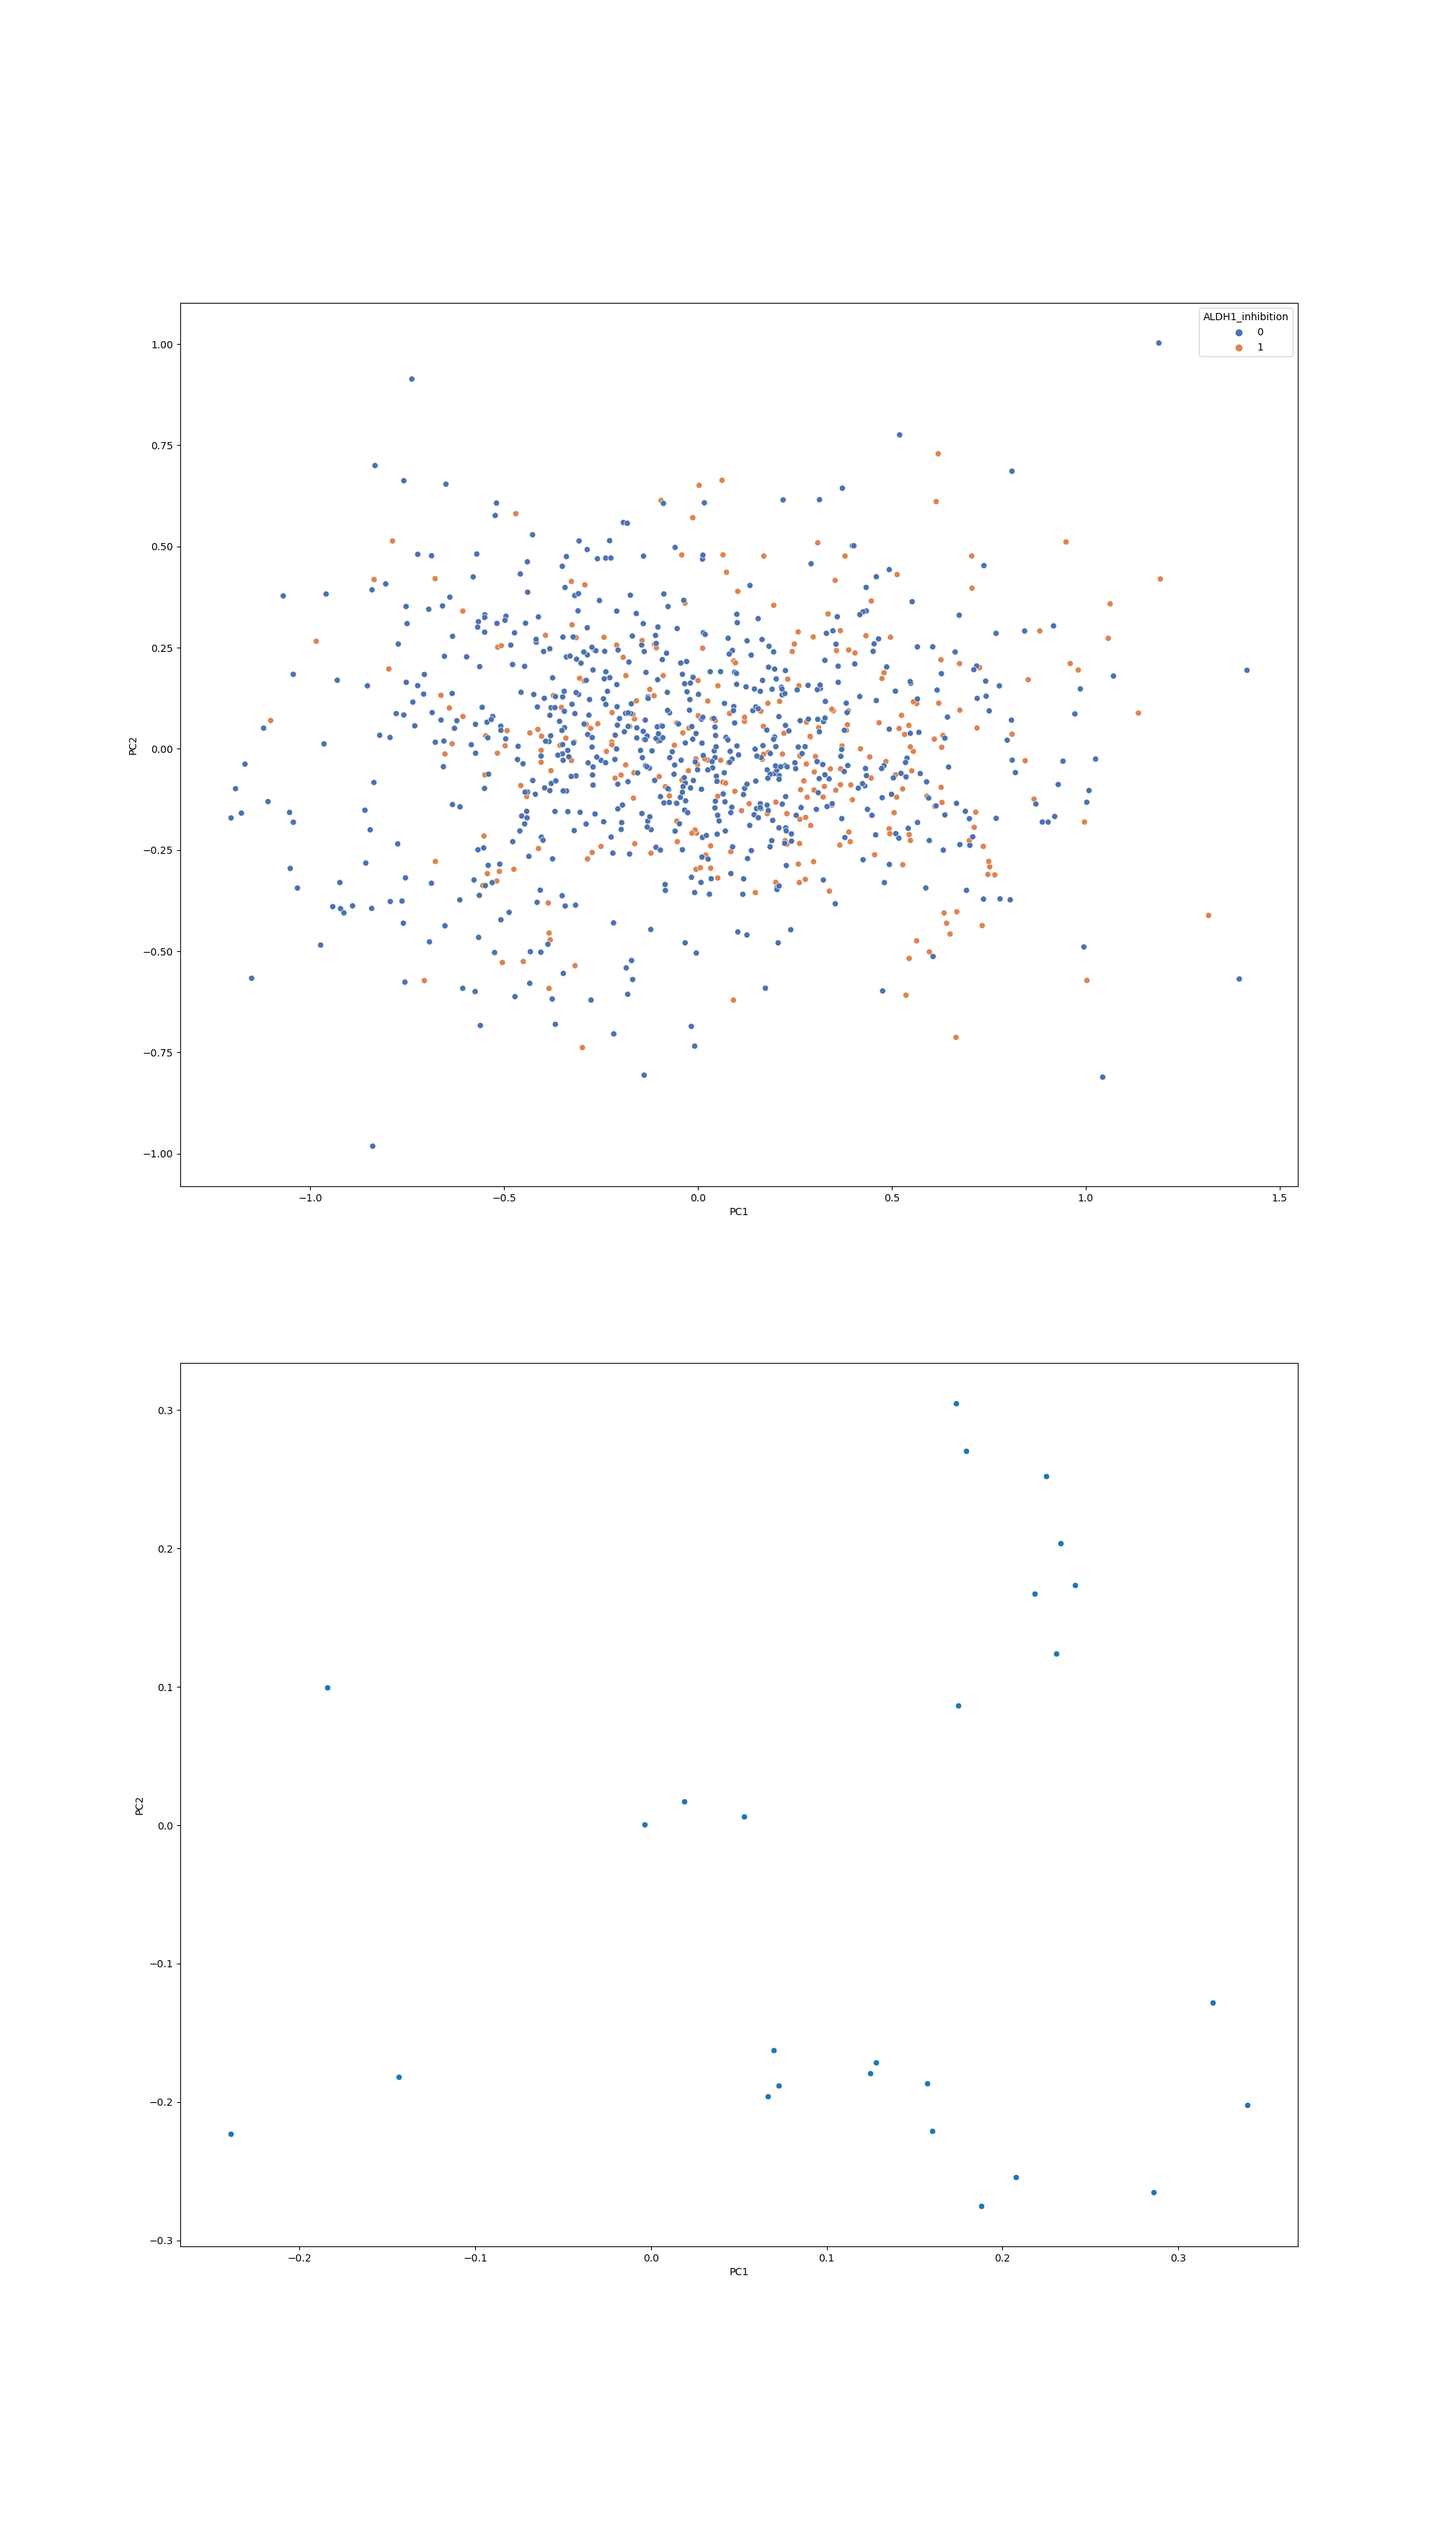
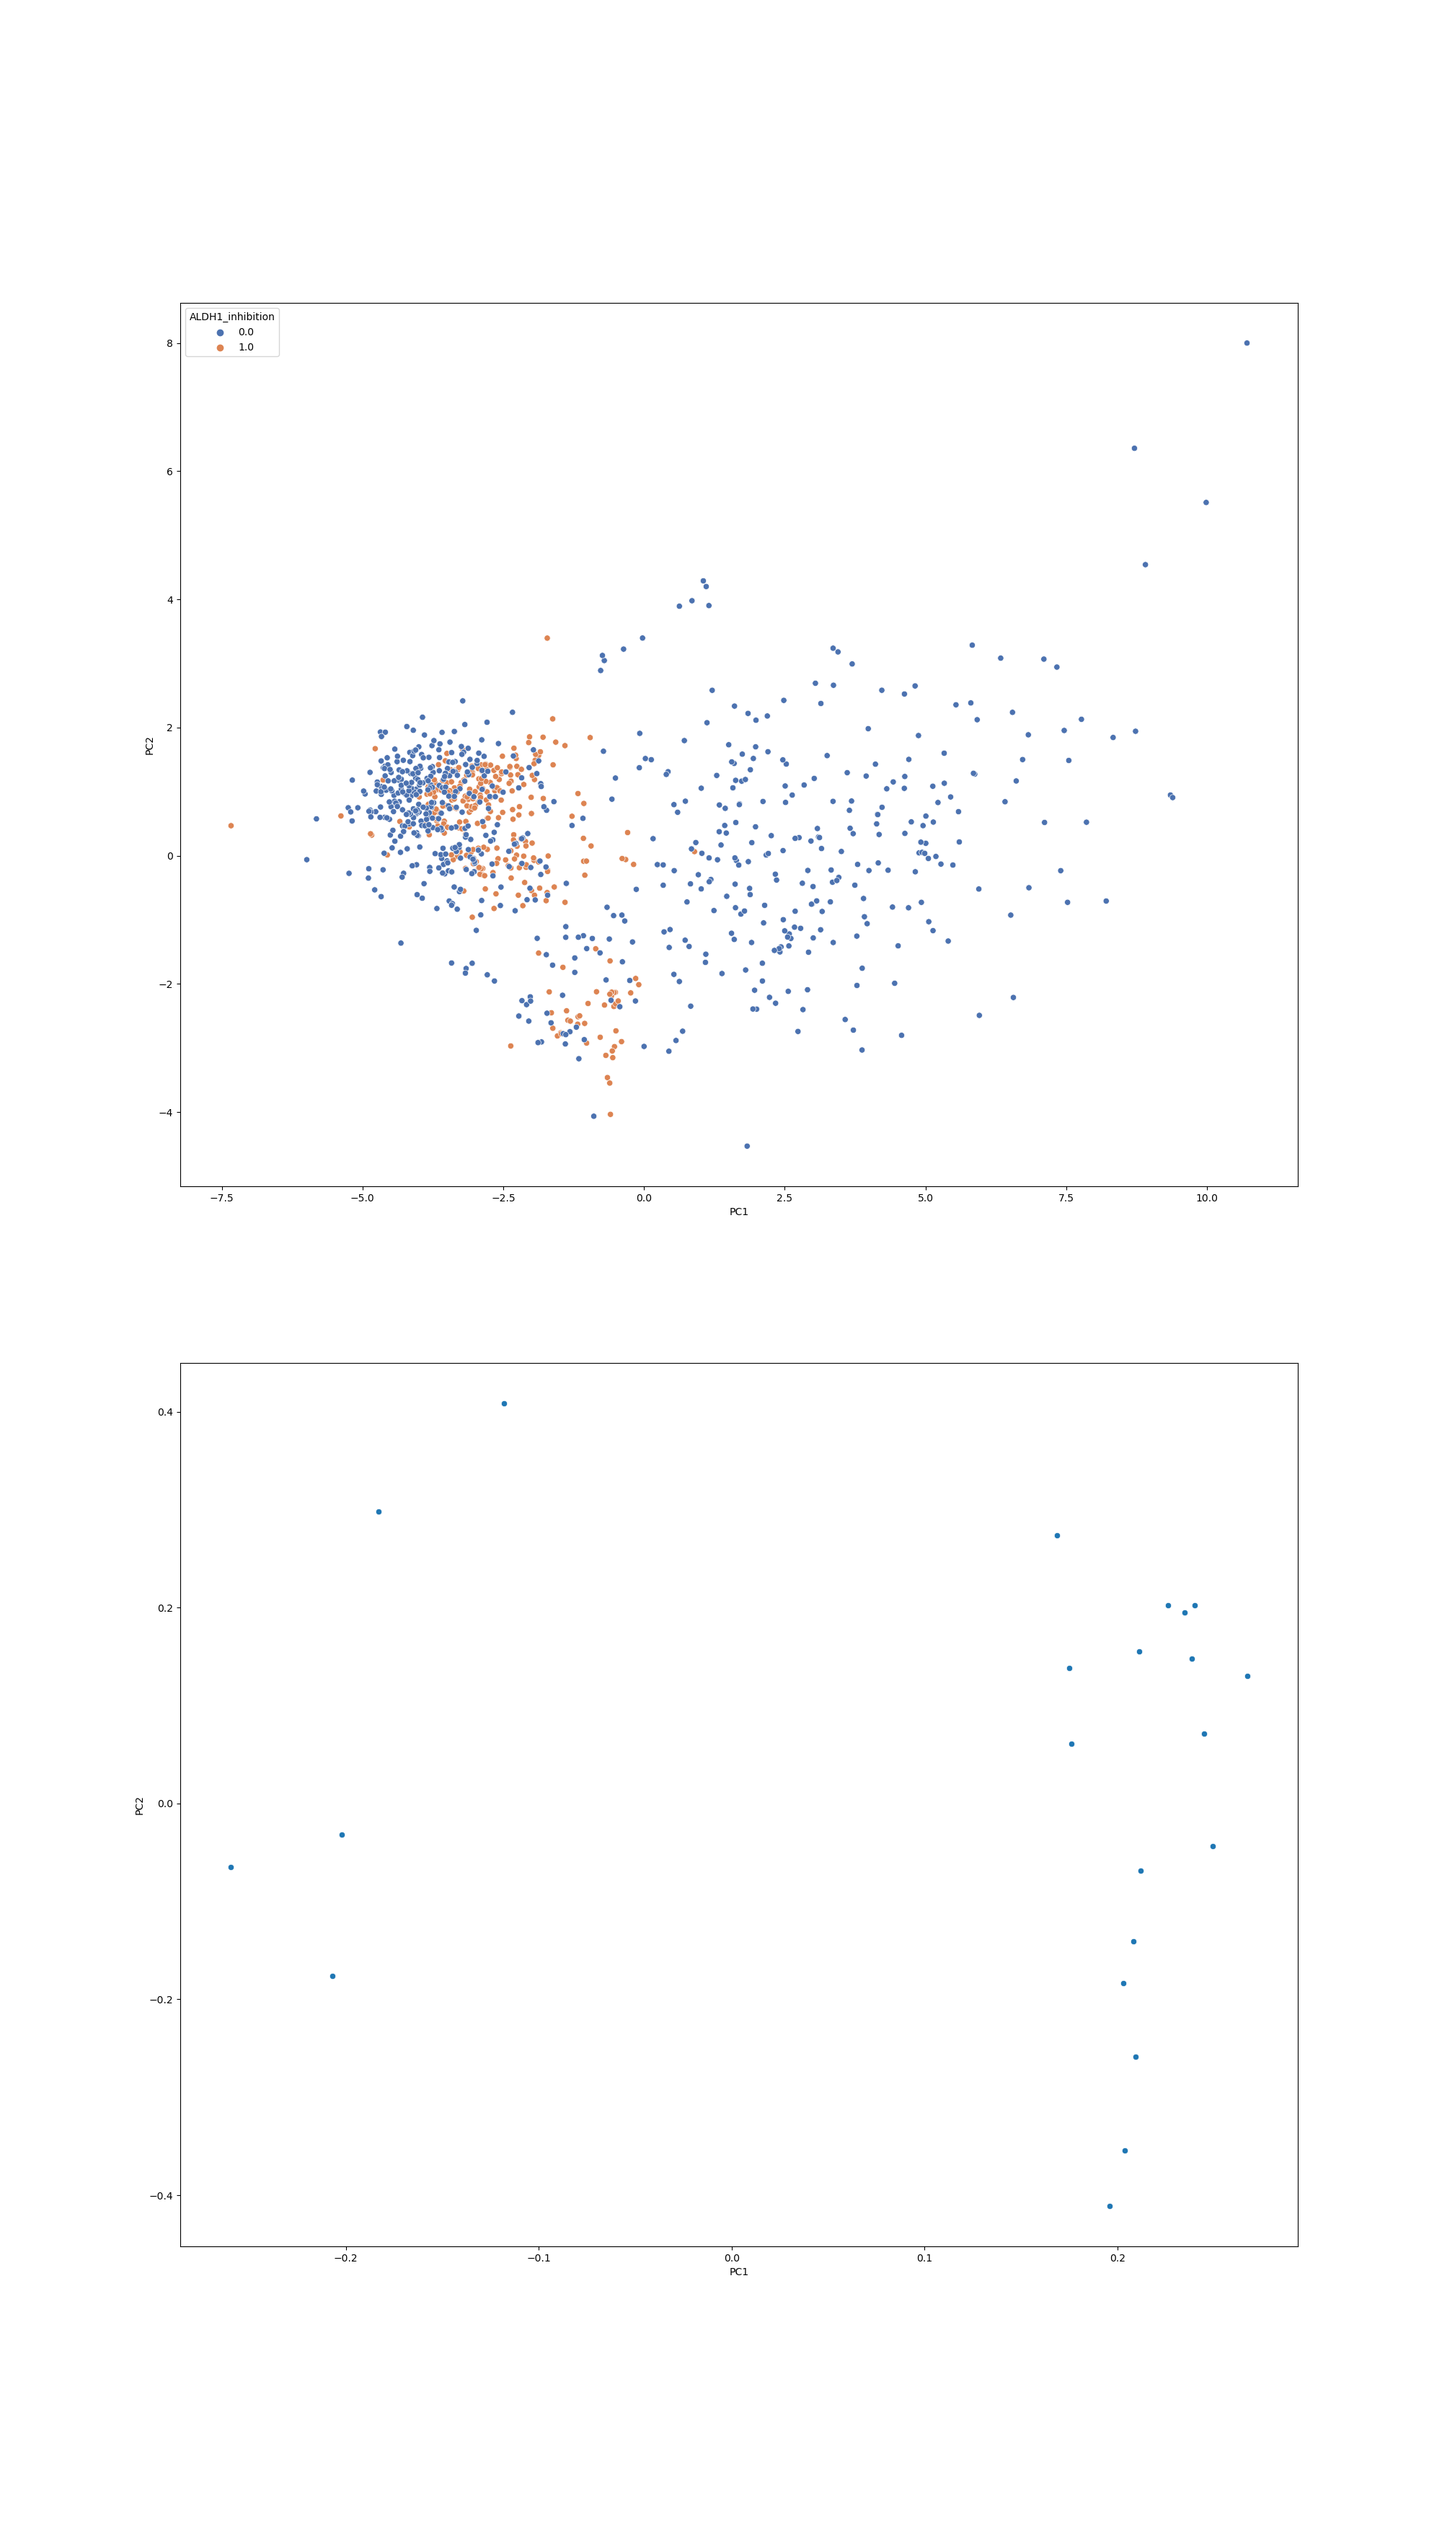
beter want beter

Changed region(s): [[0.248, 0.2491, 0.682, 0.436]]

diff --git a/PCA_BOI.py b/PCA_BOI.py
@@ -1,7 +1,3 @@
-from rdkit.Chem import Descriptors
-from rdkit import Chem
-from rdkit.ML.Descriptors import MoleculeDescriptors
-from mean import Mean_Median_Desc
 import pandas as pd
 import matplotlib.pyplot as plt
 import sklearn.preprocessing as sp
@@ -9,25 +5,7 @@ from sklearn import decomposition, linear_model
 import seaborn as sns
 from CSV_Load import CSV_Loader
 
-Molecule_DF = CSV_Loader("tested_molecules-1.csv")
-DrieD_Mol_DF = CSV_Loader("3D_descriptor_values.csv")
-
-Mol_list = []
-for row in range(len(Molecule_DF)):
-    Mol_list.append(Chem.MolFromSmiles(Molecule_DF["SMILES"][row]))
-
-desc_list = [n[0] for n in Descriptors._descList]
-short_desc = [i for i in desc_list if not i.startswith("fr_")]
-
-for desc in short_desc:
-    temp_list = []
-    calc = MoleculeDescriptors.MolecularDescriptorCalculator([desc])
-    for MOL in Mol_list:
-        val_desc = calc.CalcDescriptors(MOL)[0]
-        temp_list.append(val_desc)
-    Molecule_DF[desc] = temp_list
-
-df_PCA = pd.merge(Molecule_DF, DrieD_Mol_DF)
+df_PCA = CSV_Loader("Descriptors_Vals_2D_3D.csv")
 
 df_PCA_B = CSV_Loader("Descriptors_Vals_2D_3D.csv")
 df_PCA_B = df_PCA_B.drop("SMILES", axis=1)
@@ -40,7 +18,7 @@ scaled_data = scaler_type.transform(df_PCA_B)
 standard_scaled = pd.DataFrame(scaled_data, columns=df_PCA_B.columns)
 #sns.boxplot(minmax_scaled.iloc[0:len(minmax_scaled), 0:len(minmax_scaled.columns)])
 
-pca = decomposition.PCA(n_components=25)
+pca = decomposition.PCA(n_components=10)
 principal_components = pca.fit_transform(standard_scaled)
 
 component_names = [f"PC{i+1}" for i in range(principal_components.shape[1])]
@@ -55,18 +33,18 @@ fig, axs = plt.subplots(nrows=1)
 #fig.set_size_inches(12,18)
 
 #sns.scatterplot(data=principal_components, x='PC1', y='PC2', hue="SMILES", palette="deep", ax=axs[0])
-sns.scatterplot(data=principal_components, x='PC1', y='PC2', hue="ALDH1_inhibition", palette="deep")
+sns.scatterplot(data=principal_components, x='PC1', y='PC4', hue="ALDH1_inhibition", palette="deep")
 
 fig.suptitle("Plots of PC scores with highlighted groups",fontweight="bold")
-for i in range(1):
-    fig.get_axes()[i].set_ylabel("Scores on PC2")
-    fig.get_axes()[i].set_xlabel("Scores on PC1")
+#for i in range(1):
+ #   fig.get_axes()[i].set_ylabel("Scores on PC2")
+  #  fig.get_axes()[i].set_xlabel("Scores on PC1")
 
 fig, axs = plt.subplots(nrows=2)
 fig.set_size_inches(20,35)
 
-sns.scatterplot(data=loadings, x='PC1', y='PC2', ax=axs[1])
-sns.scatterplot(data=principal_components, x='PC1', y='PC2', hue="ALDH1_inhibition", palette="deep", ax=axs[0])
+sns.scatterplot(data=loadings, x='PC1', y='PC4', ax=axs[1])
+sns.scatterplot(data=principal_components, x='PC1', y='PC4', hue="ALDH1_inhibition", palette="deep", ax=axs[0])
 
 loadings['val'] = loadings.index
 
@@ -75,7 +53,7 @@ def label_point(x, y, val, ax):
     for i, point in a.iterrows():
         ax.text(point['x']+.02, point['y'], point['val'])
 
-#label_point(loadings.PC1, loadings.PC2, loadings.val, plt.gca())
+label_point(loadings.PC1, loadings.PC4, loadings.val, plt.gca())
 
 
 plt.show()

diff --git a/main.py b/main.py
@@ -141,7 +141,6 @@ standard_scaled = pd.DataFrame(scaled_data, columns=scale_data_df.columns)
 standard_scaled.insert(0, "ALDH1_inhibition", Re_Molecule_DF["ALDH1_inhibition"])
 standard_scaled.insert(0, "SMILES", Re_Molecule_DF["SMILES"])
 
-standard_scaled.set_index("SMILES")
+#standard_scaled.set_index("SMILES")
 
 standard_scaled.to_csv("Descriptors_Vals_2D_3D.csv", index=False)
-print(standard_scaled)
